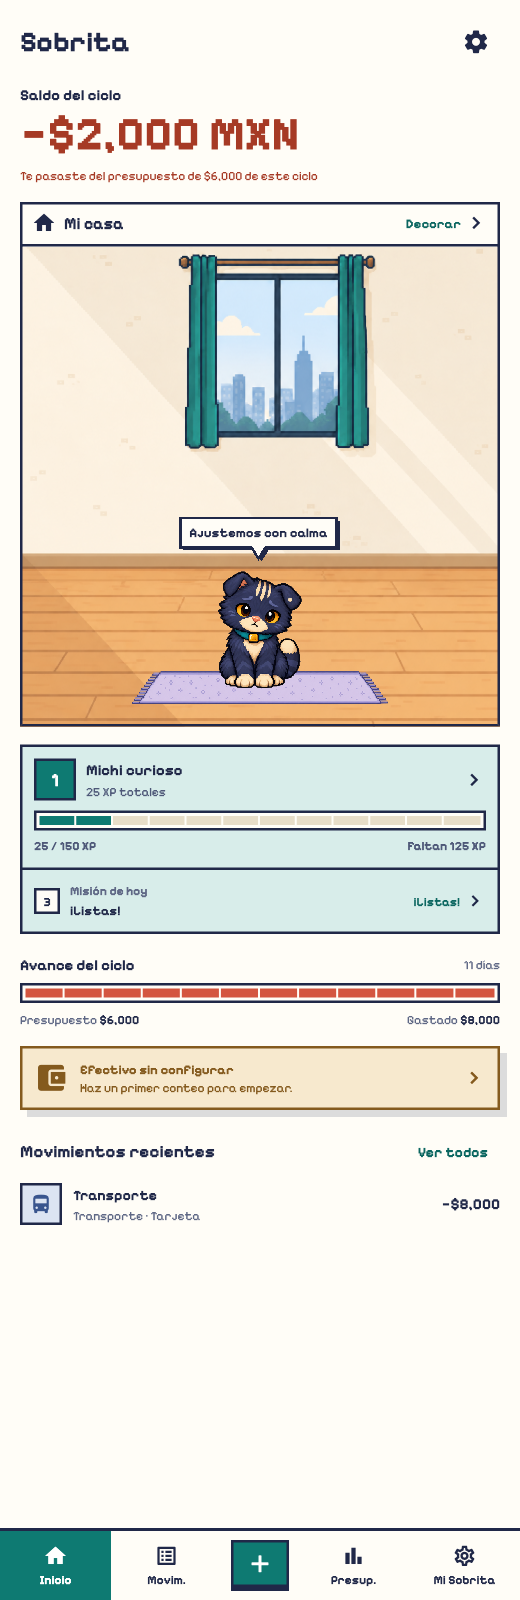
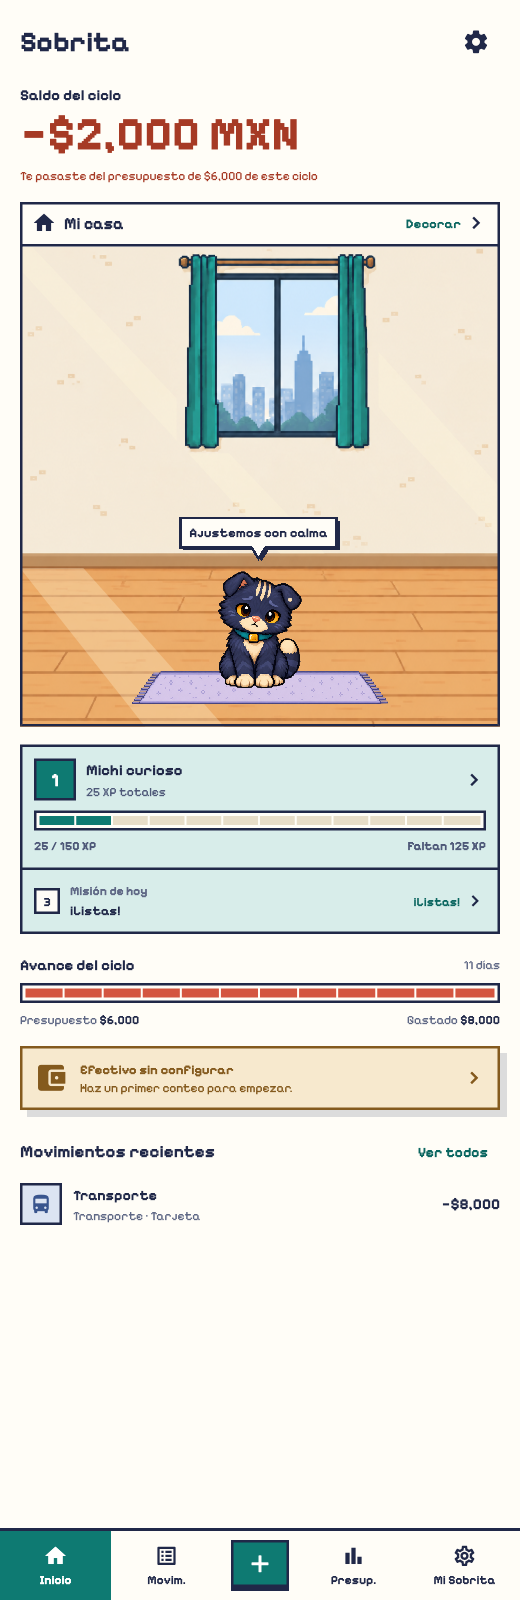
feat: light the Home room card for the time of day
The room screen and Decorate followed the clock, but Inicio's card stayed
on the plain daytime art, so tapping it at night went from day to night.
The card now takes the same phase, re-read on resume and at each phase
boundary while the app stays open. The shell warms the background for
the current hour so the card does not open blank, and the scene keeps
the last picture up while the next phase loads.

Changed region(s): [[0.0308, 0.3438, 0.4308, 0.4688], [0.7077, 0.1875, 0.7385, 0.2188], [0.6769, 0.1562, 0.7077, 0.1875]]

diff --git a/test/room_time_of_day_test.dart b/test/room_time_of_day_test.dart
@@ -1,8 +1,11 @@
 import 'package:flutter/material.dart';
 import 'package:flutter_test/flutter_test.dart';
 import 'package:shared_preferences/shared_preferences.dart';
+import 'package:sobra_app/main.dart';
+import 'package:sobra_app/models/pay_schedule.dart';
 import 'package:sobra_app/models/room_design.dart';
 import 'package:sobra_app/models/room_time_of_day.dart';
+import 'package:sobra_app/screens/room_decorate_screen.dart';
 import 'package:sobra_app/screens/room_screen.dart';
 import 'package:sobra_app/state/sobra_store.dart';
 import 'package:sobra_app/widgets/room_lighting.dart';
@@ -21,6 +24,28 @@ void main() {
     expect(at(17, 29), RoomTimeOfDay.day);
     expect(at(17, 30), RoomTimeOfDay.sunset);
     expect(at(20, 0), RoomTimeOfDay.night);
+  });
+
+  test('the next change is the next phase start on the wall clock', () {
+    DateTime after(int hour, int minute) =>
+        RoomTimeOfDay.nextChangeAfter(DateTime(2026, 10, 1, hour, minute));
+
+    expect(after(3, 0), DateTime(2026, 10, 1, 5, 30));
+    expect(after(5, 30), DateTime(2026, 10, 1, 8));
+    expect(after(12, 0), DateTime(2026, 10, 1, 17, 30));
+    expect(after(17, 30), DateTime(2026, 10, 1, 20));
+    expect(after(21, 0), DateTime(2026, 10, 2, 5, 30));
+    // Every answer is a moment where the phase really does change.
+    for (var hour = 0; hour < 24; hour++) {
+      final now = DateTime(2026, 10, 1, hour, 15);
+      final next = RoomTimeOfDay.nextChangeAfter(now);
+      expect(
+        RoomTimeOfDay.fromLocal(next),
+        isNot(
+          RoomTimeOfDay.fromLocal(next.subtract(const Duration(minutes: 1))),
+        ),
+      );
+    }
   });
 
   testWidgets('all room themes select their own night and sunset art', (
@@ -344,6 +369,65 @@ void main() {
     expect(
       shows('assets/rooms/casa_clara/background_portrait_unlit.png'),
       isTrue,
+    );
+  });
+
+  // Inicio's card opens the room, so it shows the same light the room and
+  // Decorate do. It used to stay on the plain daytime art at every hour.
+  testWidgets('the Home room follows the clock like the room it opens', (
+    tester,
+  ) async {
+    SharedPreferences.setMockInitialValues({});
+    var currentMoment = DateTime(2026, 10, 1, 17, 29);
+    final store = await SobraStore.load(now: () => currentMoment);
+    await store.setReducedMotion(true);
+    await store.configureOnboarding(
+      budgetCentavos: 600000,
+      schedule: const PaySchedule.semiMonthly(),
+    );
+    await store.completeOnboarding();
+    await store.grantCatalogEntries({'michi', 'poodle'});
+    await store.takeLaunchGiftNotice();
+    store.takePendingXpNotice();
+    await tester.pumpWidget(SobraApp(store: store));
+    await tester.pump();
+
+    RoomTimeOfDay? homePhase() => tester
+        .widget<RoomScene>(
+          find.byWidgetPredicate(
+            (widget) =>
+                widget is RoomScene &&
+                widget.variant == RoomSceneVariant.preview,
+          ),
+        )
+        .timeOfDay;
+    expect(homePhase(), RoomTimeOfDay.day);
+
+    // Left open across a boundary, the card turns on its own.
+    currentMoment = DateTime(2026, 10, 1, 17, 30);
+    await tester.pump(const Duration(minutes: 1));
+    expect(homePhase(), RoomTimeOfDay.sunset);
+
+    // Back from the background hours later, it reads the clock again.
+    currentMoment = DateTime(2026, 10, 1, 22);
+    tester.binding.handleAppLifecycleStateChanged(AppLifecycleState.resumed);
+    await tester.pump();
+    expect(homePhase(), RoomTimeOfDay.night);
+
+    await tester.pumpWidget(
+      SobraScope(
+        store: store,
+        child: MaterialApp(
+          localizationsDelegates: sobraLocalizationsDelegates,
+          supportedLocales: sobraSupportedLocales,
+          home: const RoomDecorateScreen(),
+        ),
+      ),
+    );
+    await tester.pump();
+    expect(
+      tester.widget<RoomScene>(find.byType(RoomScene)).timeOfDay,
+      RoomTimeOfDay.night,
     );
   });
 }

diff --git a/lib/widgets/room_scene.dart b/lib/widgets/room_scene.dart
@@ -44,7 +44,7 @@ class RoomScene extends StatelessWidget {
   final String roomId;
   final String? backgroundAsset;
 
-  /// Time-of-day art is available in the immersive version of every room.
+  /// Lights the room for this time of day; null keeps the plain art.
   final RoomTimeOfDay? timeOfDay;
 
   /// Lights the places [selectedItemId] can go, and only those.
@@ -90,24 +90,8 @@ class RoomScene extends StatelessWidget {
               room.id == RoomThemes.casaMontanaId ||
               room.id == RoomThemes.casaInvernaderoId;
           final isPanoramic = usesPaintedLight;
-          final roomPhase = variant == RoomSceneVariant.immersive
-              ? timeOfDay
-              : null;
-          final assetDirectory = room.portraitAsset.substring(
-            0,
-            room.portraitAsset.lastIndexOf('/'),
-          );
-          final sceneAsset =
-              backgroundAsset ??
-              switch (roomPhase) {
-                RoomTimeOfDay.dawn || RoomTimeOfDay.sunset =>
-                  '$assetDirectory/background_portrait_sunset_unlit.png',
-                RoomTimeOfDay.night =>
-                  '$assetDirectory/background_portrait_night_unlit.png',
-                RoomTimeOfDay.day =>
-                  '$assetDirectory/background_portrait_unlit.png',
-                null => room.portraitAsset,
-              };
+          final roomPhase = timeOfDay;
+          final sceneAsset = backgroundAsset ?? room.sceneAssetFor(roomPhase);
           final layout = _RoomSceneLayout.of(room.id);
           final selected = selectedItemId;
           final selectedAsset = selected == null
@@ -692,6 +676,9 @@ class RoomScene extends StatelessWidget {
                       child: Image.asset(
                         sceneAsset,
                         fit: BoxFit.fill,
+                        // When the hour turns, the last light stays up until
+                        // the next one has loaded instead of a blank room.
+                        gaplessPlayback: true,
                         excludeFromSemantics: true,
                         errorBuilder: (_, _, _) =>
                             const ColoredBox(color: AppColors.paperLight),

diff --git a/lib/widgets/room_time_of_day_builder.dart b/lib/widgets/room_time_of_day_builder.dart
@@ -1,0 +1,58 @@
+import 'dart:async';
+
+import 'package:flutter/widgets.dart';
+
+import '../models/room_time_of_day.dart';
+import '../state/sobra_store.dart';
+
+/// Builds with the room's current time of day, and again whenever it changes.
+///
+/// The phase is read from the store's clock, so tests pin it the way they pin
+/// everything else. It is re-read when the app comes back to the foreground
+/// and at each phase boundary while it stays open, so a room left on screen
+/// through the evening still turns to night.
+class RoomTimeOfDayBuilder extends StatefulWidget {
+  const RoomTimeOfDayBuilder({super.key, required this.builder});
+
+  final Widget Function(BuildContext context, RoomTimeOfDay phase) builder;
+
+  @override
+  State<RoomTimeOfDayBuilder> createState() => _RoomTimeOfDayBuilderState();
+}
+
+class _RoomTimeOfDayBuilderState extends State<RoomTimeOfDayBuilder>
+    with WidgetsBindingObserver {
+  Timer? _boundary;
+
+  @override
+  void initState() {
+    super.initState();
+    WidgetsBinding.instance.addObserver(this);
+  }
+
+  @override
+  void didChangeAppLifecycleState(AppLifecycleState state) {
+    if (state == AppLifecycleState.resumed && mounted) setState(() {});
+  }
+
+  @override
+  void dispose() {
+    WidgetsBinding.instance.removeObserver(this);
+    _boundary?.cancel();
+    super.dispose();
+  }
+
+  void _scheduleBoundary(DateTime now) {
+    _boundary?.cancel();
+    _boundary = Timer(RoomTimeOfDay.nextChangeAfter(now).difference(now), () {
+      if (mounted) setState(() {});
+    });
+  }
+
+  @override
+  Widget build(BuildContext context) {
+    final now = SobraScope.of(context).currentMoment;
+    _scheduleBoundary(now);
+    return widget.builder(context, RoomTimeOfDay.fromLocal(now));
+  }
+}

diff --git a/lib/screens/home_screen.dart b/lib/screens/home_screen.dart
@@ -11,6 +11,7 @@ import '../widgets/fixed_expenses.dart';
 import '../widgets/gamification_ui.dart';
 import '../widgets/pixel_ui.dart';
 import '../widgets/room_scene.dart';
+import '../widgets/room_time_of_day_builder.dart';
 import '../widgets/starter_friend.dart';
 import '../widgets/transaction_row.dart';
 import 'app_shell.dart';
@@ -477,14 +478,19 @@ class _HomeRoomCard extends StatelessWidget {
                     bottom: BorderSide(color: AppColors.ink, width: 2.5),
                   ),
                 ),
-                child: RoomScene(
-                  variant: RoomSceneVariant.preview,
-                  animateItems: active,
-                  roomId: roomId,
-                  placements: placements,
-                  message: message,
-                  catMotion: catMotion,
-                  catLoop: catLoop,
+                // The same light as the room it opens, so tapping through
+                // does not turn day into night.
+                child: RoomTimeOfDayBuilder(
+                  builder: (context, phase) => RoomScene(
+                    variant: RoomSceneVariant.preview,
+                    animateItems: active,
+                    roomId: roomId,
+                    placements: placements,
+                    message: message,
+                    catMotion: catMotion,
+                    catLoop: catLoop,
+                    timeOfDay: phase,
+                  ),
                 ),
               ),
             ),

diff --git a/lib/screens/app_shell.dart b/lib/screens/app_shell.dart
@@ -6,6 +6,7 @@ import '../data/catalog_preview_data.dart';
 import '../l10n/catalog_labels.dart';
 import '../l10n/generated/app_localizations.dart';
 import '../models/room_design.dart';
+import '../models/room_time_of_day.dart';
 import '../models/xp_event.dart';
 import '../services/app_review_service.dart';
 import '../services/app_telemetry.dart';
@@ -142,13 +143,20 @@ class _AppShellState extends State<AppShell> {
       unawaited(nextAnnouncements?.start() ?? Future<void>.value());
     }
     // The room is now above the fold, so its fixed layer and included decor
-    // are warmed before Inicio asks for them.
+    // are warmed before Inicio asks for them. Inicio lights it for the hour,
+    // so the background it shows is the one for now, not the plain art.
+    final room = RoomThemes.byId(nextStore.equippedRoomId);
     unawaited(
       Future.wait([
         precacheImage(
-          AssetImage(RoomThemes.byId(nextStore.equippedRoomId).portraitAsset),
+          AssetImage(
+            room.sceneAssetFor(
+              RoomTimeOfDay.fromLocal(nextStore.currentMoment),
+            ),
+          ),
           context,
         ),
+        precacheImage(AssetImage(room.portraitAsset), context),
         precacheImage(const AssetImage(RoomDecorAssets.rug), context),
         precacheImage(const AssetImage(RoomDecorAssets.tablePlant), context),
       ]),

diff --git a/lib/models/room_design.dart b/lib/models/room_design.dart
@@ -1,6 +1,7 @@
 import 'dart:ui' show Size;
 
 import 'catalog_entry.dart';
+import 'room_time_of_day.dart';
 
 /// What a decoration stands on, hangs from or lies across.
 ///
@@ -71,6 +72,23 @@ class RoomTheme {
 
   /// Every place this room has, in the order the decorator counts them.
   final List<RoomSlot> slots;
+
+  /// The background drawn for [phase]; the plain art when there is none.
+  ///
+  /// Public so the app can warm the picture Inicio is about to ask for.
+  String sceneAssetFor(RoomTimeOfDay? phase) {
+    final directory = portraitAsset.substring(
+      0,
+      portraitAsset.lastIndexOf('/'),
+    );
+    return switch (phase) {
+      RoomTimeOfDay.dawn ||
+      RoomTimeOfDay.sunset => '$directory/background_portrait_sunset_unlit.png',
+      RoomTimeOfDay.night => '$directory/background_portrait_night_unlit.png',
+      RoomTimeOfDay.day => '$directory/background_portrait_unlit.png',
+      null => portraitAsset,
+    };
+  }
 
   /// What fills a slot the user has never touched.
   final Map<RoomSlot, String> defaultPlacements;

diff --git a/lib/models/room_time_of_day.dart b/lib/models/room_time_of_day.dart
@@ -13,4 +13,28 @@ enum RoomTimeOfDay {
     if (minutes >= 17 * 60 + 30 && minutes < 20 * 60) return sunset;
     return night;
   }
+
+  /// The first moment after [now] at which [fromLocal] answers differently.
+  static DateTime nextChangeAfter(DateTime now) {
+    for (var day = 0; day < 2; day++) {
+      for (final minutes in const [
+        5 * 60 + 30,
+        8 * 60,
+        17 * 60 + 30,
+        20 * 60,
+      ]) {
+        // Built from fields, not added as a duration, so a daylight-saving
+        // night still lands on the wall-clock time.
+        final boundary = DateTime(
+          now.year,
+          now.month,
+          now.day + day,
+          minutes ~/ 60,
+          minutes % 60,
+        );
+        if (boundary.isAfter(now)) return boundary;
+      }
+    }
+    throw StateError('unreachable: a phase starts every day');
+  }
 }

diff --git a/test/budget_overrun_visual_test.dart b/test/budget_overrun_visual_test.dart
@@ -6,6 +6,7 @@ import 'package:sobra_app/main.dart';
 import 'package:sobra_app/models/expense_entry.dart';
 import 'package:sobra_app/models/pay_schedule.dart';
 import 'package:sobra_app/models/room_design.dart';
+import 'package:sobra_app/models/room_time_of_day.dart';
 import 'package:sobra_app/state/sobra_store.dart';
 import 'package:sobra_app/widgets/cat_sprite.dart';
 import 'package:sobra_app/widgets/room_scene.dart';
@@ -55,8 +56,9 @@ void main() {
     await tester.pump();
     await tester.runAsync(
       () => Future.wait([
+        // Inicio lights the room for the hour: at 10:00 that is day.
         precacheImage(
-          const AssetImage(RoomThemes.casaClaraPortraitAsset),
+          AssetImage(RoomThemes.casaClara.sceneAssetFor(RoomTimeOfDay.day)),
           tester.element(find.byType(RoomScene)),
         ),
         precacheImage(

diff --git a/test/home_character_room_test.dart b/test/home_character_room_test.dart
@@ -6,6 +6,7 @@ import 'support/localizations.dart';
 import 'package:sobra_app/main.dart';
 import 'package:sobra_app/models/pay_schedule.dart';
 import 'package:sobra_app/models/room_design.dart';
+import 'package:sobra_app/models/room_time_of_day.dart';
 import 'package:sobra_app/state/sobra_store.dart';
 import 'package:sobra_app/theme/app_theme.dart';
 import 'package:sobra_app/widgets/cat_sprite.dart';
@@ -53,8 +54,9 @@ void main() {
     await tester.pump();
     await tester.runAsync(
       () => Future.wait([
+        // Inicio lights the room for the hour: at 10:00 that is day.
         precacheImage(
-          const AssetImage(RoomThemes.casaClaraPortraitAsset),
+          AssetImage(RoomThemes.casaClara.sceneAssetFor(RoomTimeOfDay.day)),
           tester.element(find.byType(RoomScene)),
         ),
         precacheImage(
